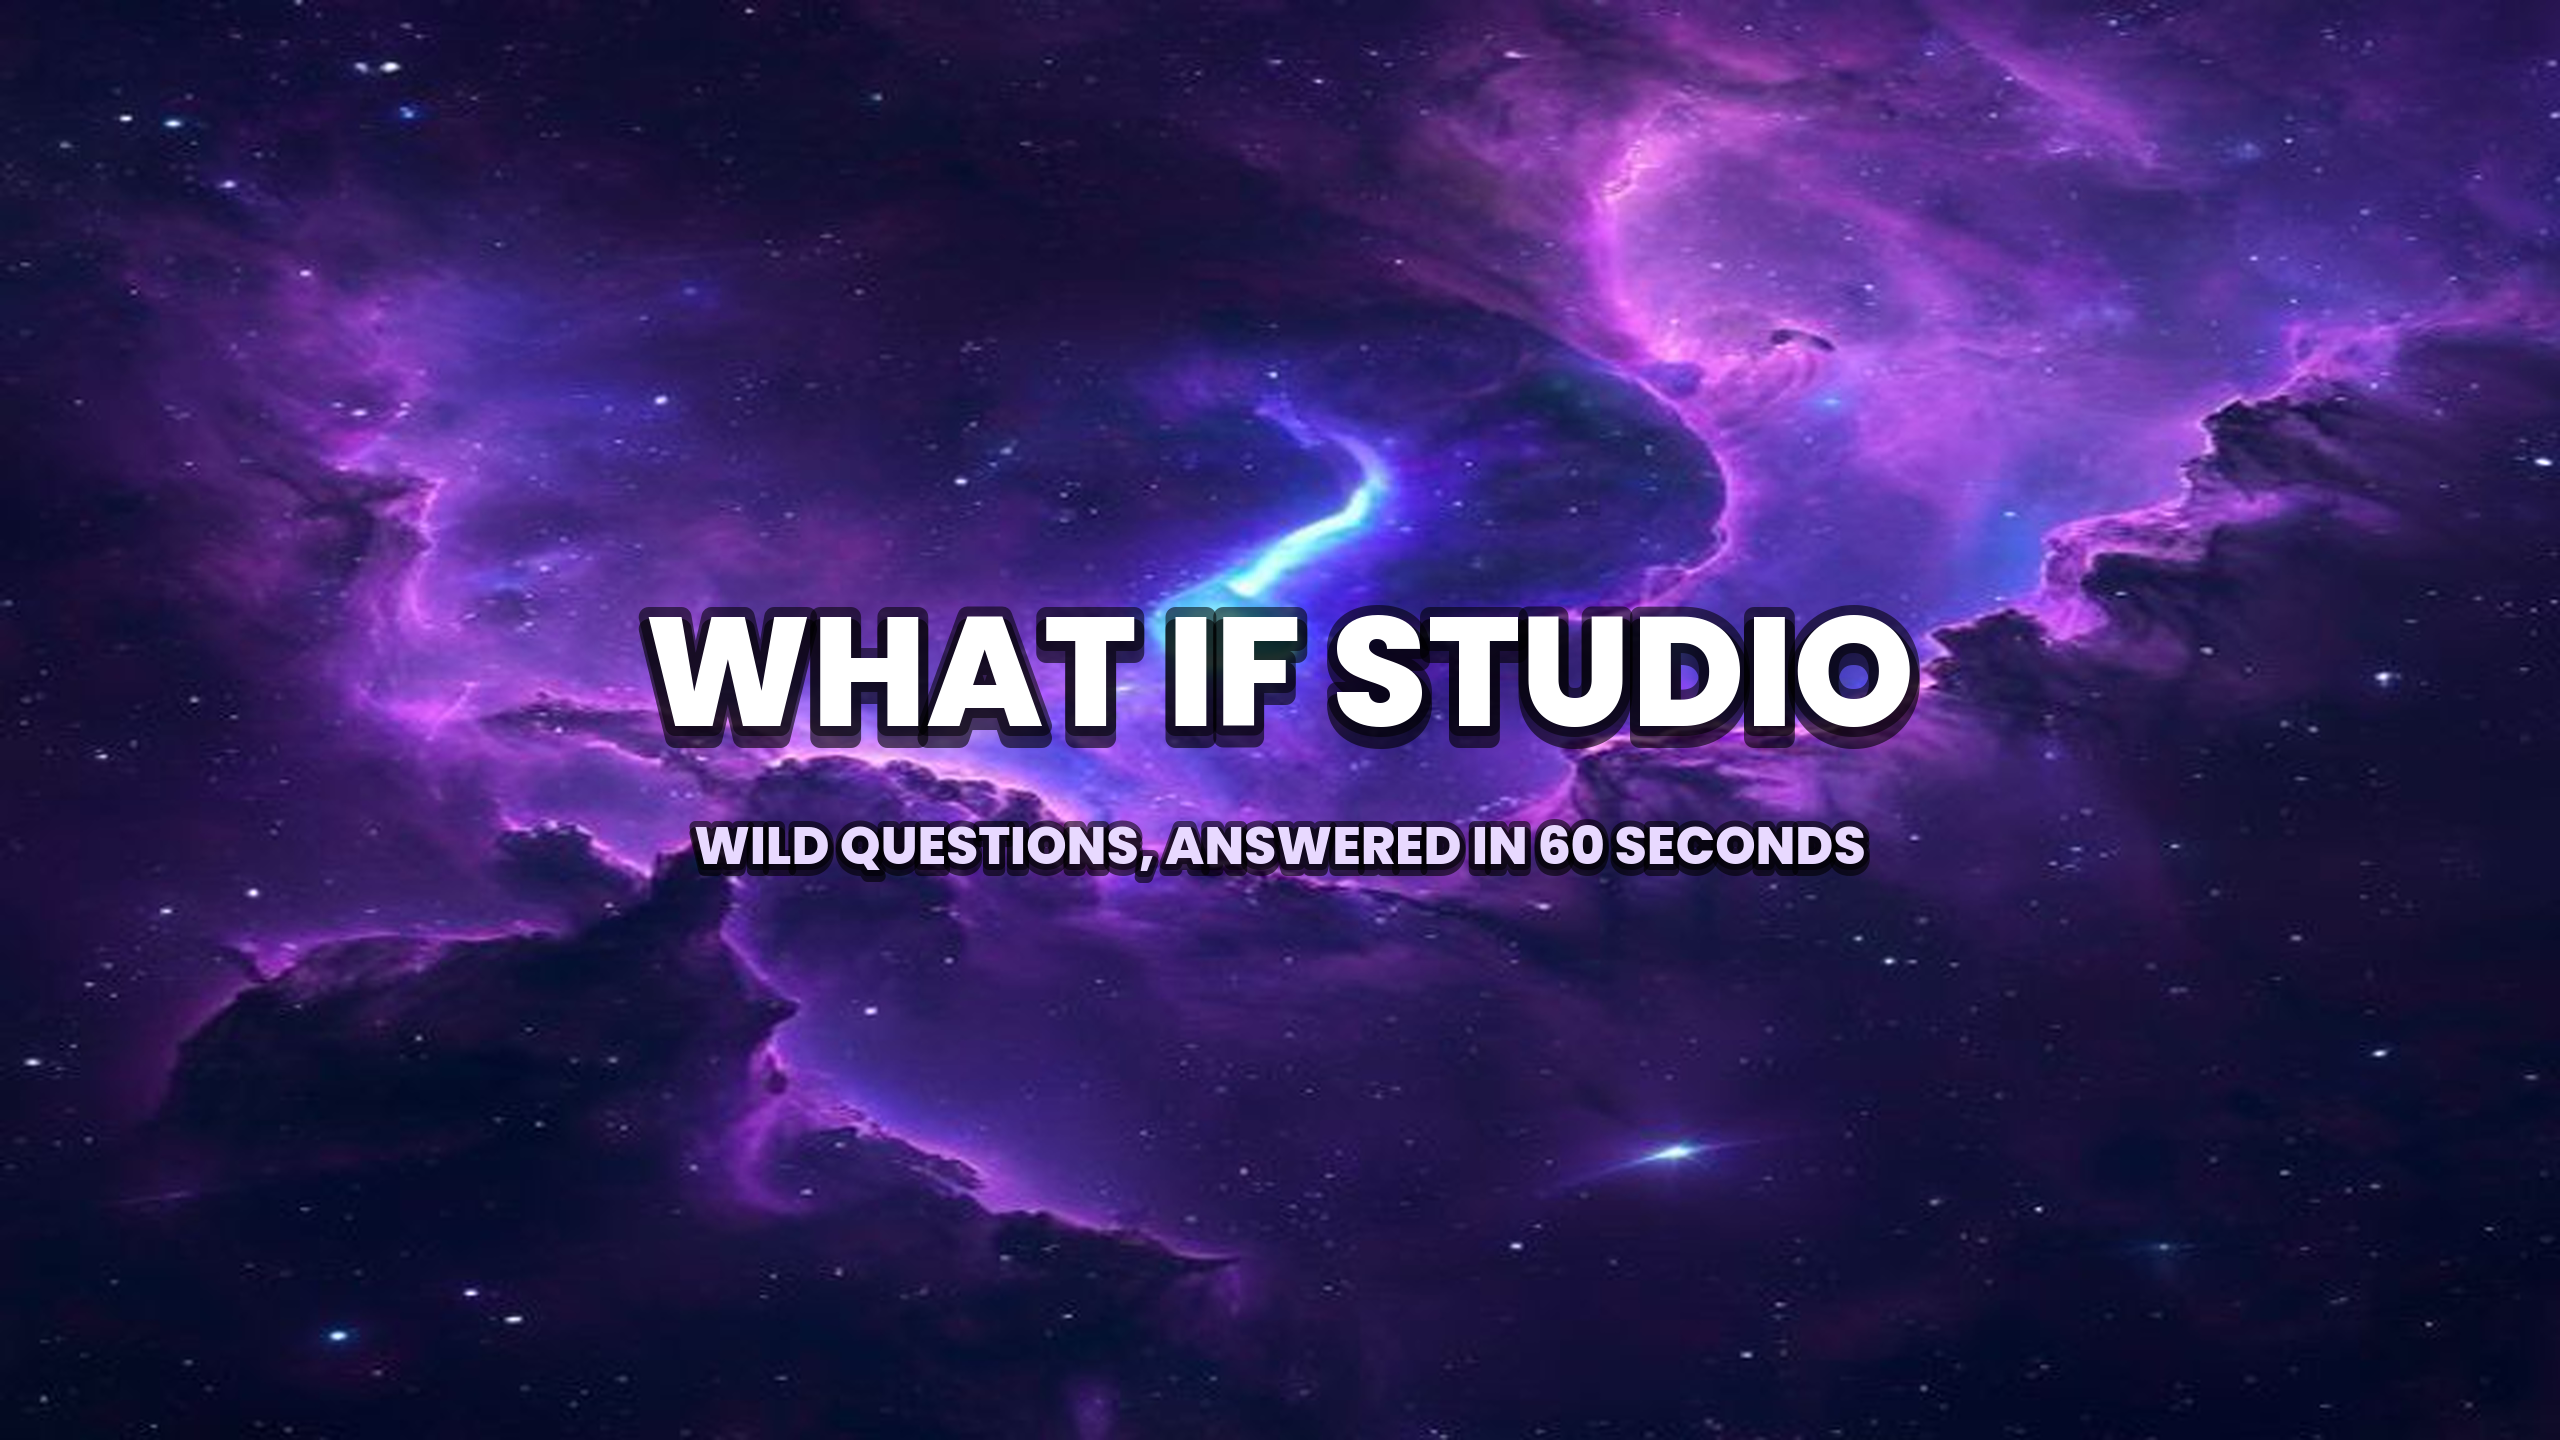
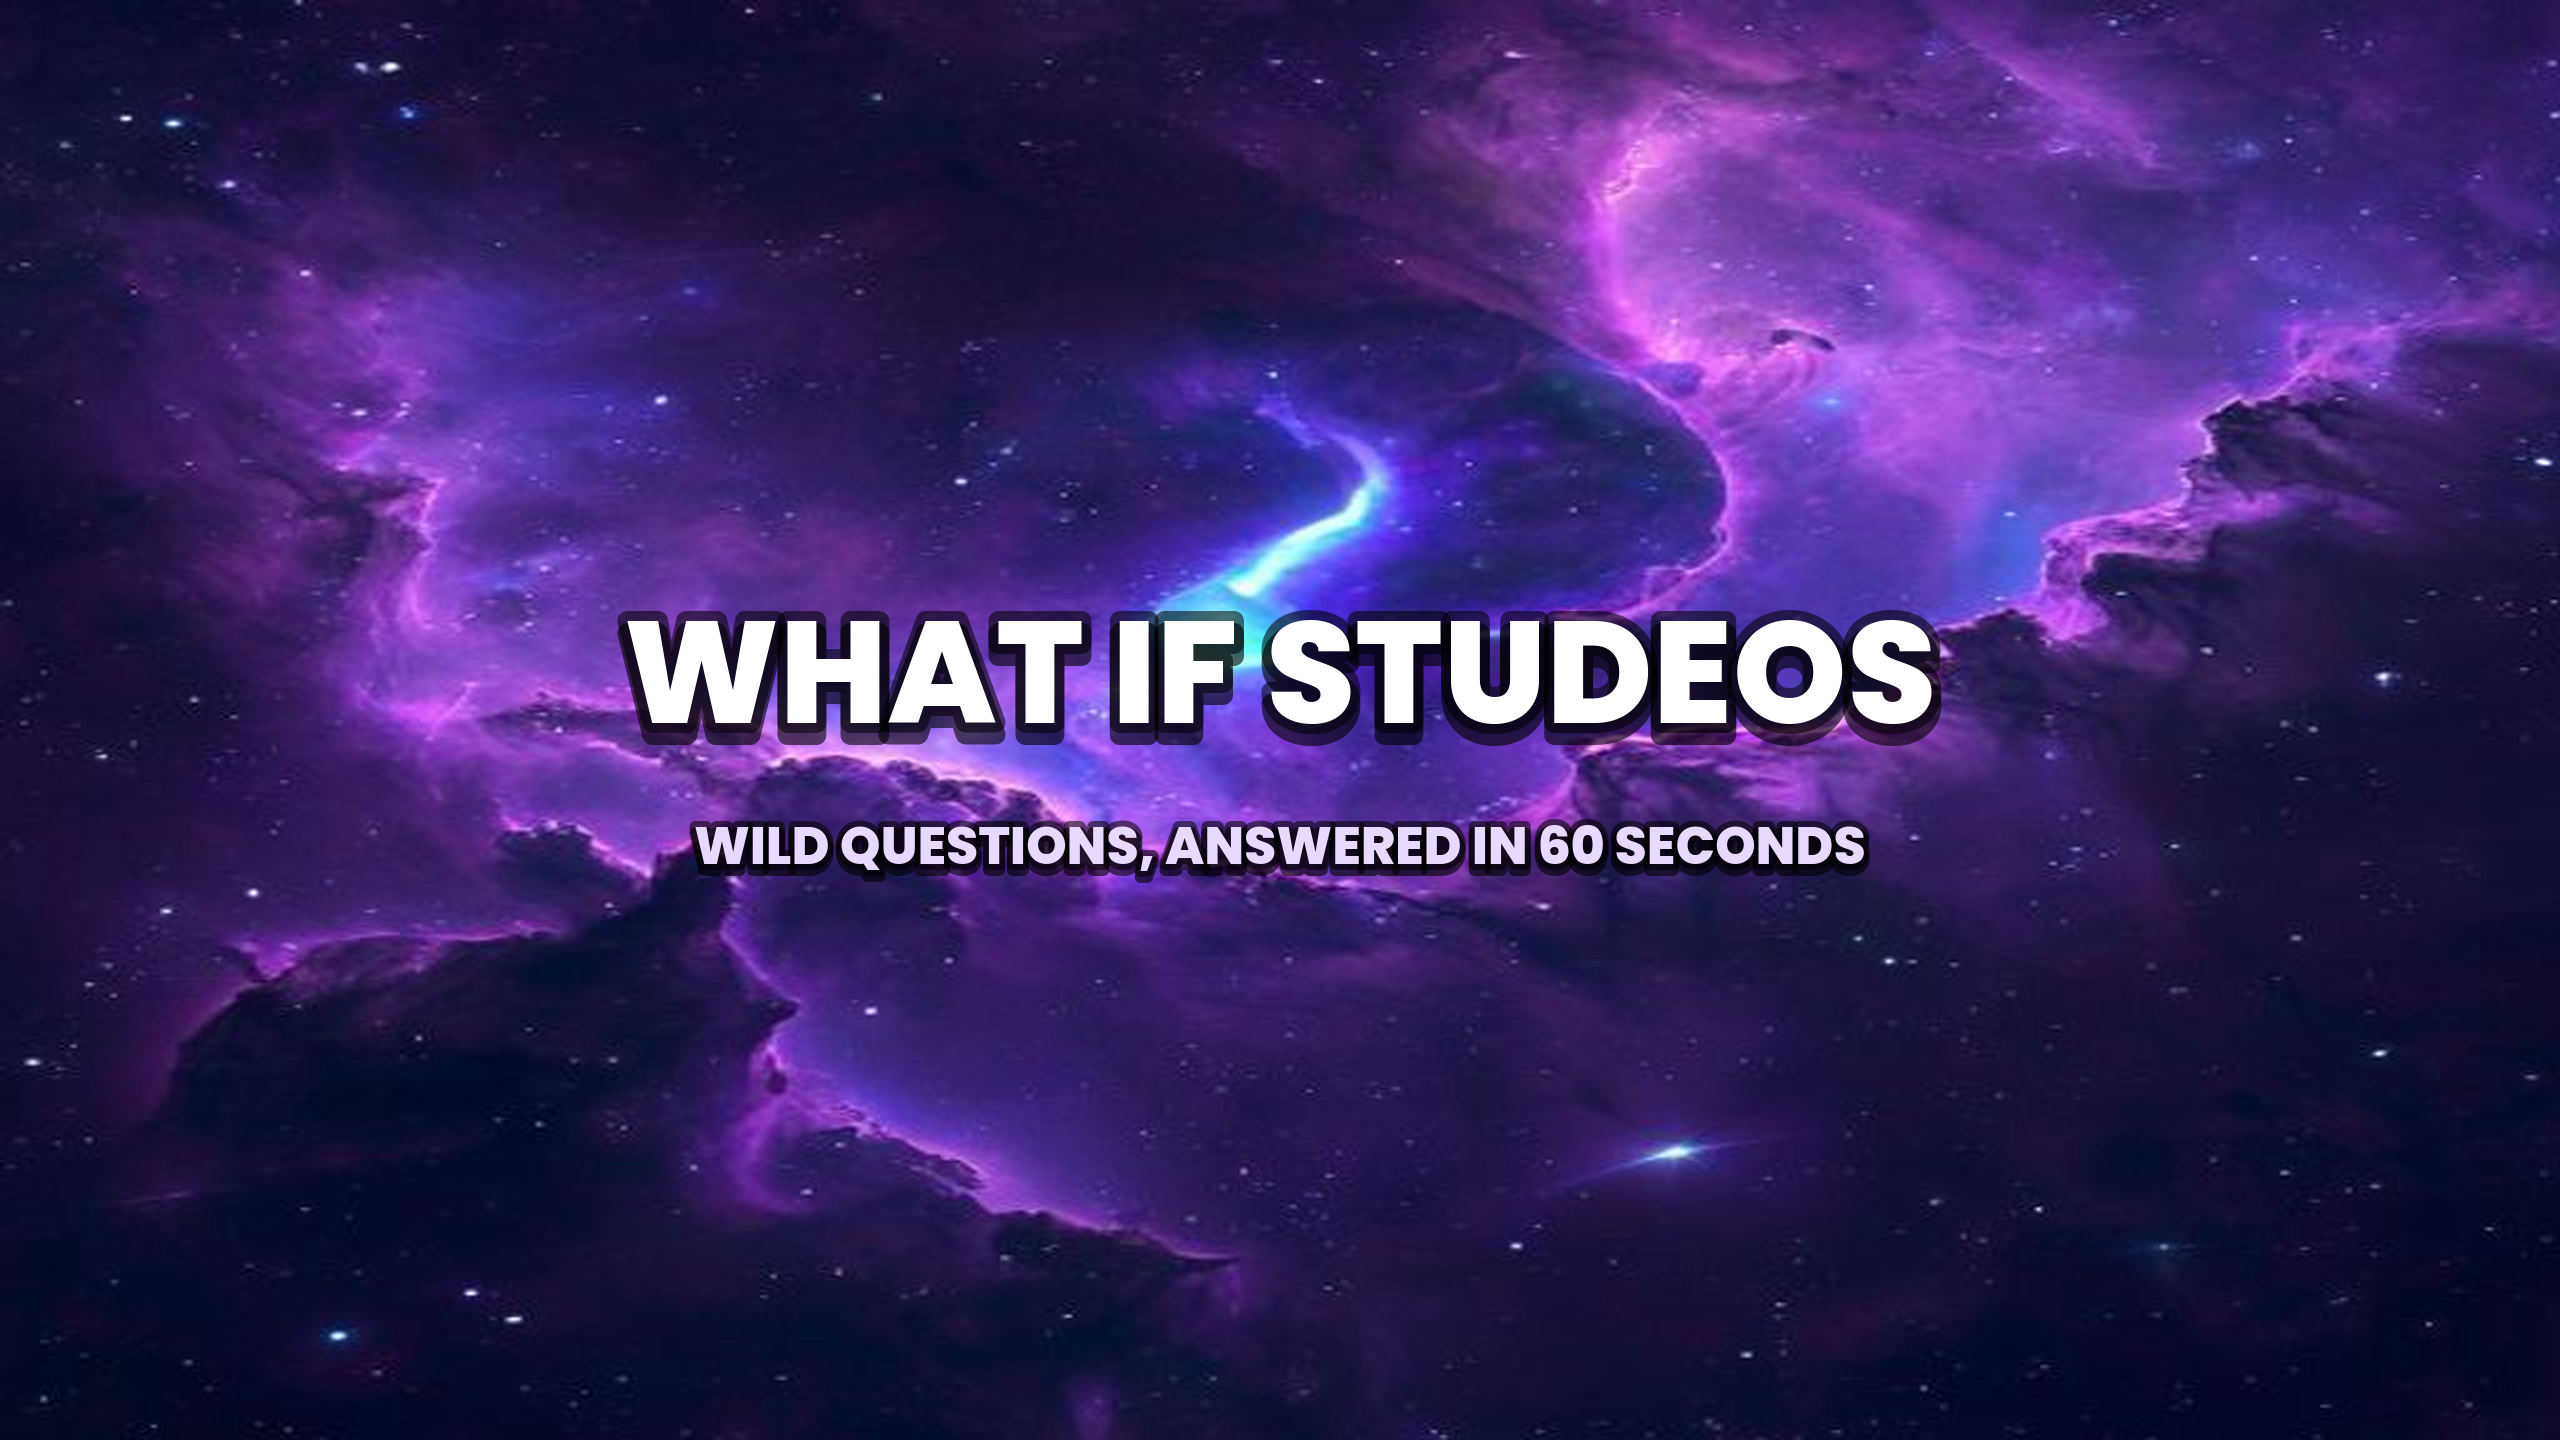
Rename displayed brand to "What If Studeos"
The user registered the channel as What If Studeos ("Studios" was
taken). Display-facing strings updated: app title/header/footer,
package export header, "Made with" line, dashboard page titles, help
heading, brand README - and both channel banners regenerated with the
new wordmark (fontsize 145 keeps the longer name inside the 1546px
device-safe area). Technical names (file names, launcher .bat, export
format id "what-if-studio", code comments) intentionally unchanged.

Changed region(s): [[0.2188, 0.4062, 0.7812, 0.5312]]

diff --git a/index.html b/index.html
@@ -3,7 +3,7 @@
 <head>
 <meta charset="UTF-8">
 <meta name="viewport" content="width=device-width, initial-scale=1.0">
-<title>What If Studio — Short-Form Scenario Engine</title>
+<title>What If Studeos — Short-Form Scenario Engine</title>
 <link rel="stylesheet" href="styles.css">
 </head>
 <body>
@@ -31,7 +31,7 @@
   <div class="brand">
     <span class="brand-mark" aria-hidden="true">?</span>
     <div class="brand-text">
-      <h1>What If Studio</h1>
+      <h1>What If Studeos</h1>
       <p class="tagline">Turn one question into a ready-to-record short.</p>
     </div>
   </div>
@@ -166,7 +166,7 @@
 </main>
 
 <footer class="app-footer">
-  <p><strong>What If Studio</strong> runs 100% locally — no server, no account, no tracking, no remote content. Open <code>index.html</code> and it works.</p>
+  <p><strong>What If Studeos</strong> runs 100% locally — no server, no account, no tracking, no remote content. Open <code>index.html</code> and it works.</p>
   <p>All scenarios are speculative fiction and thought experiments for entertainment. Publishing, performance, and monetization are up to you and your platforms — no growth is promised or automated here.</p>
 </footer>
 

diff --git a/app.js b/app.js
@@ -1516,7 +1516,7 @@ function buildPackage(scenario, options) {
 
 function packageToText(pkg) {
   const lines = [];
-  lines.push("WHAT IF STUDIO — CONTENT PACKAGE");
+  lines.push("WHAT IF STUDEOS — CONTENT PACKAGE");
   lines.push("=".repeat(40));
   lines.push(`Title:     ${pkg.title}`);
   lines.push(`Category:  ${pkg.category}`);
@@ -1552,7 +1552,7 @@ function packageToText(pkg) {
   pkg.thumbnails.forEach((t, i) => lines.push(`${i + 1}. "${t}"`));
   lines.push("");
   lines.push("-".repeat(40));
-  lines.push("Made with What If Studio (local, offline). Content is speculative fiction / thought experiment.");
+  lines.push("Made with What If Studeos (local, offline). Content is speculative fiction / thought experiment.");
   return lines.join("\n");
 }
 

diff --git a/help.html b/help.html
@@ -3,7 +3,7 @@
 <head>
 <meta charset="UTF-8">
 <meta name="viewport" content="width=device-width, initial-scale=1.0">
-<title>What If Studio — How to</title>
+<title>What If Studeos — How to</title>
 <style>
 :root {
   --bg: #0b0d14; --bg-raised: #131624; --bg-inset: #0e1120;
@@ -143,7 +143,7 @@ details p { color: var(--text-dim); font-size: 13px; margin: 8px 0 2px; }
 </nav>
 
 <header>
-  <h1>How to use What If Studio</h1>
+  <h1>How to use What If Studeos</h1>
   <p class="sub">Idea → script → finished vertical video → posted. The full loop, step by step.</p>
 </header>
 

diff --git a/pipeline/produce.html b/pipeline/produce.html
@@ -3,7 +3,7 @@
 <head>
 <meta charset="UTF-8">
 <meta name="viewport" content="width=device-width, initial-scale=1.0">
-<title>What If Studio — Produce</title>
+<title>What If Studeos — Produce</title>
 <style>
 :root {
   --bg: #0b0d14; --bg-raised: #131624; --bg-inset: #0e1120;

diff --git a/pipeline/review.html b/pipeline/review.html
@@ -3,7 +3,7 @@
 <head>
 <meta charset="UTF-8">
 <meta name="viewport" content="width=device-width, initial-scale=1.0">
-<title>What If Studio — Video Review</title>
+<title>What If Studeos — Video Review</title>
 <style>
 :root {
   --bg: #0b0d14; --bg-raised: #131624; --bg-inset: #0e1120;

diff --git a/brand/README.md b/brand/README.md
@@ -1,6 +1,6 @@
 # Brand kit
 
-Cosmic purple identity matching the app's look and the caption style (Poppins ExtraBold).
+Cosmic purple identity for the **What If Studeos** channel ("Studios" was taken), matching the app's look and the caption style (Poppins ExtraBold).
 
 | File | Size | Use it for |
 |------|------|-----------|